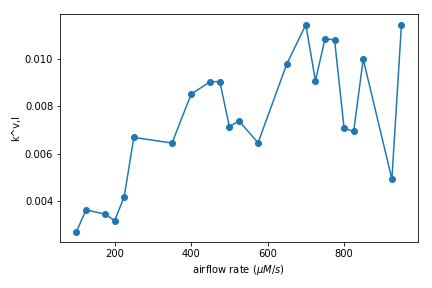
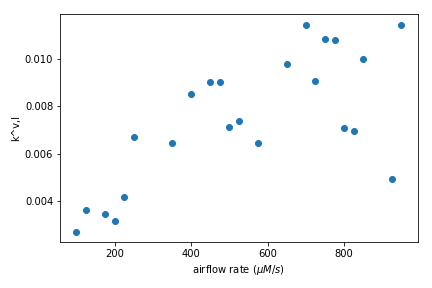
ote is fixed!

diff --git a/Lab4-Gas Transfer/group1_gas_transfer_postlab.md b/Lab4-Gas Transfer/group1_gas_transfer_postlab.md
@@ -30,18 +30,35 @@ Figure 3. k^v,l as a function of airflow rate (μmole/s).
 Figure 4. Oxygen transfer efficiency as a function of airflow rate (μmole/s) with the oxygen deficit set at 6 mg/L.
 
 8. As the airflow rate (μmole/s) increases, the oxygen transfer efficiency decreases. Thus, we can observe an inverse relationship between OTE and airflow rate. This makes sense because we're dividing by a larger $\dot{n}_{aq\; o_{2} }$ each time, so with increasing air flow rate, the oxygen transfer efficiency decreases.
+less surface area to volume
+faster -> less time in the reactor
 
 9. Propose a change to the experimental apparatus that would increase the efficiency.
 
 
 This oxygen transfer efficiency (OTE) is a function of the type of diffuser, the diffuser depth of submergence, as well as temperature and ionic strength of the activated sludge.
+The most efficient systems use membrane diffusers and achieve an OTE of approximately 10%.
 
 10. Verify that your report and graphs meet the requirements.
 
 
+# Lab Exploration
+1. ProCoDA switches from the “prepare to calibrate” state to the “calibrate” state when accumulator pressure is greater than or equal to the minimum  calibration pressure.
+2. ProCoDA switches from the “calibrate” state to the “Pause” state when accumulator pressure is greater than the maximum calibration pressure.
+3. The “Pause” state knows which state to go to next because the rule is that once the elapsed time in the current state, “pause”, is greater than the input calibrate to aeration lag time, it will then move to the aeration state.
+4. The equation that is used to calculate the maximum calibration pressure multiplies the max calibration pressure/source pressure and the source pressure. This equation is better than using a constant for the maximum calibration pressure because it is actually based on the environment and isn’t accidentally set too high so that calibration takes too long.
+5. By using the ramp function, ProCoDA calculates the predicted pressure in the accumulator when it is filled at the constant mass flow rate, aka the air fill model, by taking the minimum calibration pressure (a constant), the maximum calibration pressure (the equation as explained above in number 4), and the fill time (Delta P/air flow rate).
+6. The inputs to the “air valve control” are the air slope and the air flow rate.
+7. The “Air valve control” controls the “Aerate” and “Fill accumulator” states.
+8. Jonathan gives us a thumbs up for our ProCoDA program that cycles between two states that aerate for 15 s and then pause for 10 s.
+
 # Conclusion
 
+A small reactor that meets the conditions of a constant gas transfer coefficient will be used to characterize the dependence of the gas transfer coefficient on the gas flow rate through a simple diffuser. The gas transfer coefficient is a function of the gas flow rate because the interface surface area i.e., the surface area of the air bubbles) increases as the gas flow rate increases.
+
 # Suggestions / Comments
+
+Problem with one of the data sets in the Aeration folder.
 
 
 # Appendix
@@ -198,7 +215,7 @@ plt.savefig('C:/Users/Jiwon Lee/github/rosie/Lab4-Gas Transfer/time_vs_C.png')
 plt.show()
 
 ## Number 6
-plt.plot(airflows, kvl,'o-')
+plt.plot(airflows, kvl,'o')
 plt.xlabel('airflow rate ($\mu M/s$) ')
 plt.ylabel('k^v,l')
 plt.tight_layout()
@@ -209,6 +226,7 @@ plt.show()
 V=.750*u.L
 T=293*u.K
 MW=32*u.gram/u.mole
+MW=MW.to(u.mg/u.mole)
 nair=airflows.to(u.mole/u.s)
 P=101.3*u.kPa
 P=P.to(u.atm)
@@ -216,10 +234,7 @@ f=0.21
 deltaC=6*u.mg/u.L
 OTE = np.array((V*kvl*(deltaC))/(MW*nair*f))
 
-T=V*kvl*(deltaC))/(MW*nair*f)
-
-
-plt.plot(airflows, OTE,'o-')
+plt.plot(airflows, OTE,'o')
 plt.xlabel('airflow rate (μmole/s) ')
 plt.ylabel('oxygen transfer efficiency')
 plt.tight_layout()
